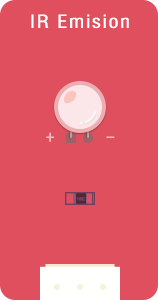
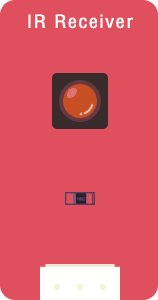
替换元件图片

diff --git a/resources/views/index.blade.php b/resources/views/index.blade.php
@@ -180,11 +180,11 @@
             </div>
             <div class="buy" onclick="window.open('http://www.kenrobot.com/index.php?app=shop');">元件选购</div>
         </div>
-        <div class="var-side no-select">
-            <div class="bar">变量</div>
+        <div class="var-side">
+            <div class="bar no-select">变量</div>
             <div class="content">
                 <table id="var-table">
-                    <tr>
+                    <tr class="no-select">
                         <th>名称</th>
                         <th>种类</th>
                         <th>类型</th>
@@ -193,7 +193,7 @@
                     </tr>
                 </table>
             </div>
-            <div class="operator">
+            <div class="operator no-select">
                 <div class="btn add">增加</div>
                 <div class="btn del">删除</div>
                 <div class="btn">修改</div>
